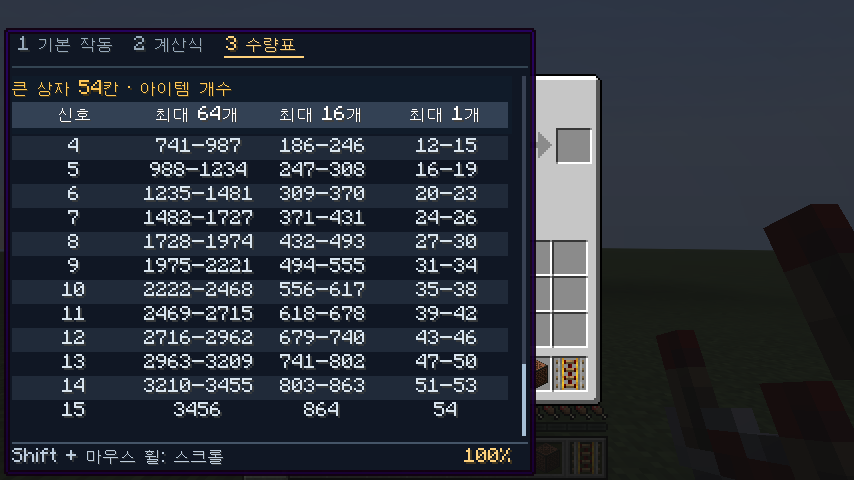
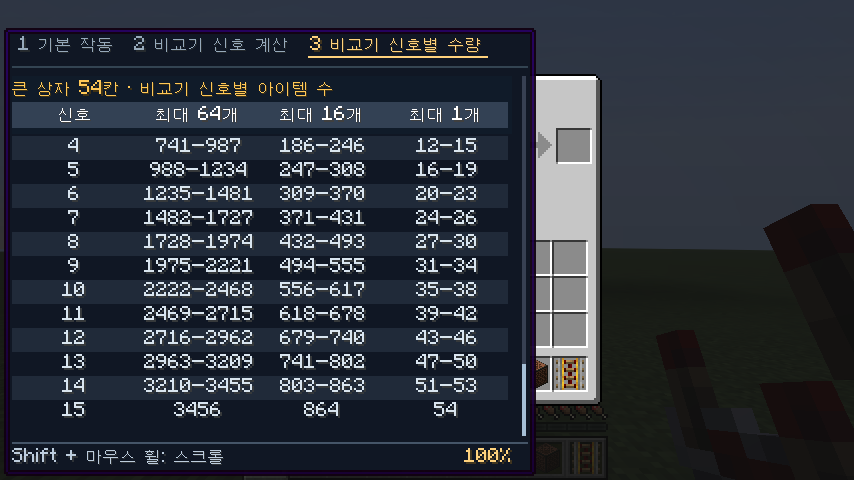
Clarify comparator context in signal calculations and count tables

Changed region(s): [[0.2436, 0.0625, 0.5785, 0.125], [0.1827, 0.1562, 0.3653, 0.2188], [0.1827, 0.0625, 0.2131, 0.125]]

diff --git a/src/client/java/io/github/ruok0214/redstonehelp/GuideSections.java b/src/client/java/io/github/ruok0214/redstonehelp/GuideSections.java
@@ -28,14 +28,15 @@ public final class GuideSections {
             case "hopper" -> List.of(group(topic, "transfer", 1, 2), group(topic, "pickup", 3));
             case "piston", "sticky_piston" -> List.of(new Section("movement", ExtraDetails.keys(topic)));
             case "sculk_sensor", "calibrated_sculk_sensor" -> List.of(group(topic, "range_time", 1, 2), group(topic, "signal", 3));
-            case "shelf" -> List.of(group(topic, "swapping", 1, 3), group(topic, "signal", 2));
-            case "chiseled_bookshelf" -> List.of(group(topic, "signal", 1), group(topic, "storage", 2, 3));
-            case "cauldron" -> List.of(group(topic, "signal", 1), group(topic, "contents", 2, 3));
+            case "shelf" -> List.of(group(topic, "swapping", 1, 3), group(topic, "comparator_output", 2));
+            case "chiseled_bookshelf" -> List.of(group(topic, "comparator_output", 1), group(topic, "storage", 2, 3));
+            case "cauldron" -> List.of(group(topic, "comparator_output", 1), group(topic, "contents", 2, 3));
             case "big_dripleaf" -> List.of(group(topic, "timing", 1, 2), group(topic, "power", 3));
             case "wind_charge" -> List.of(group(topic, "exceptions", 1), group(topic, "signal", 2), group(topic, "launching", 3));
-            case "copper_bulb" -> List.of(group(topic, "brightness", 1), group(topic, "signal", 2));
+            case "copper_bulb" -> List.of(group(topic, "brightness", 1), group(topic, "comparator_output", 2));
             case "beehive", "cake", "respawn_anchor", "item_frame", "copper_golem_statue", "creaking_heart",
-                 "end_portal_frame", "lectern", "composter", "lightning_rod", "target", "detector_rail" -> List.of(new Section("signal", ExtraDetails.keys(topic)));
+                 "end_portal_frame", "composter" -> List.of(new Section("comparator_output", ExtraDetails.keys(topic)));
+            case "lectern", "lightning_rod", "target", "detector_rail" -> List.of(new Section("signal", ExtraDetails.keys(topic)));
             default -> ExtraDetails.has(topic) ? List.of(new Section("details", ExtraDetails.keys(topic))) : List.of();
         };
     }

diff --git a/README.md b/README.md
@@ -7,7 +7,7 @@ Minecraft Java **26.2 / Fabric**용 클라이언트 모드입니다.
 ## 설치
 
 1. Minecraft Java **26.2**, Fabric Loader **0.19.5 이상**, Java **25 이상** 환경을 준비합니다.
-2. `redstone-block-description-0.5.0.jar`와 **Fabric API 0.160.0+26.2**를 해당 게임 프로필의 `mods` 폴더에 넣습니다. 이전 버전의 `redstone-block-description-*.jar` 또는 `redstone-help-*.jar`는 새 파일로 교체합니다.
+2. `redstone-block-description-0.5.1.jar`와 **Fabric API 0.160.0+26.2**를 해당 게임 프로필의 `mods` 폴더에 넣습니다. 이전 버전의 `redstone-block-description-*.jar` 또는 `redstone-help-*.jar`는 새 파일로 교체합니다.
 3. 게임을 실행합니다. Minecraft 언어가 한국어이면 한국어 설명이 표시됩니다.
 
 서버에는 설치할 필요가 없습니다. 다른 프로젝트의 모드나 Mod Menu도 필요하지 않습니다.
@@ -78,10 +78,11 @@ Minecraft Java **26.2 / Fabric**용 클라이언트 모드입니다.
 발사기는 **발사체 / 양동이 / 도구 사용 / 장비 장착 / 설치·생성 / 제한·예외**, 소리 블록은 **음높이·연주 / 아래 블록별 악기 / 구리·머리 음색** 등으로 나눕니다.
 각 제목은 상단의 내용 순서와 대응합니다. 상단 표시는 읽는 위치를 알려 주며, 이동은 기존처럼 Shift와 마우스 휠을 사용합니다.
 
-### 보관함 수량표
+### 보관함의 비교기 신호와 수량표
 
-계산식은 **비어 있으면 0, 그 외에는 1 + 내림(14 × 채워진 비율)**로 표시합니다.
+**비교기 신호 계산** 항목에는 비교기가 읽는 출력값을 **비어 있으면 0, 그 외에는 1 + 내림(14 × 채워진 비율)**로 표시합니다.
 채워진 비율은 빈 칸을 포함한 각 칸의 채움 비율을 평균한 값입니다.
+**비교기 신호별 수량**과 표 제목에도 비교기에 관한 정보임을 명시합니다. 선반·가마솥 등에서 비교기로 읽는 값은 **비교기 출력**이라는 제목으로 구분합니다.
 
 - 1·5·9·27·54칸 보관함은 최대 64개·16개·1개씩 겹쳐지는 아이템별로 신호 0~15를 내는 **실제 낱개 수 범위**를 표시합니다.
 - 상자·덫 상자·구리 상자는 27칸과 큰 상자 54칸 표를 함께 표시합니다.
@@ -123,7 +124,7 @@ Minecraft Java **26.2 / Fabric**용 클라이언트 모드입니다.
 ```
 
 Java 25가 필요합니다. Linux/macOS에서는 `./gradlew`를 사용합니다.
-설치 파일은 `build/libs/redstone-block-description-0.5.0.jar`입니다.
+설치 파일은 `build/libs/redstone-block-description-0.5.1.jar`입니다.
 모드 표시 이름과 배포 파일명은 변경했으며, 기존 설치와의 중복 감지를 위해 내부 ID `redstone_help`는 유지합니다.
 
 클라이언트 테스트는 별도의 테스트 월드에서 다음을 검사합니다.

diff --git a/docs/VERIFICATION.md b/docs/VERIFICATION.md
@@ -1,6 +1,6 @@
 # 검증 기록
 
-검증일: 2026-10-31. 대상: Redstone Block Description 0.5.0, Minecraft Java 26.2,
+검증일: 2026-10-31. 대상: Redstone Block Description 0.5.1, Minecraft Java 26.2,
 Fabric Loader 0.19.5, Fabric API 0.160.0+26.2, Java 25, Windows.
 
 ## 결과
@@ -9,7 +9,7 @@ Fabric Loader 0.19.5, Fabric API 0.160.0+26.2, Java 25, Windows.
 - `gradlew --offline runClientGameTest -PcaptureIllustrations -PcaptureExpanded`: **BUILD SUCCESSFUL**. 별도 게임 월드에서 새 장면 38장을 촬영했으며 전체 640×360 PNG는 140장입니다.
 - 새 촬영 결과와 모드 리소스로 복사한 38장의 SHA-256 일치 확인.
 - 전체 200개 등록 아이템의 실제 게임 레지스트리 존재 및 기본·상세 툴팁 연결 확인. 아이템이 있는 비교기 출력 블록에 설명이 누락되지 않았는지 검사 통과.
-- 한국어·영어 리소스 각각 470개 키, 양쪽 키 일치 확인.
+- 한국어·영어 리소스 각각 471개 키, 양쪽 키 일치 확인.
 - 한국어·영어 61개 주제에서 기능·작동 조건·수치 위주로 검토.
 - 양 언어에서 모든 설명의 번역 키 해석과 최대 250 GUI 픽셀 줄바꿈 검사 통과.
 - Shift 누르기 및 해제로 상세·기본 표시 전환 확인.
@@ -17,6 +17,7 @@ Fabric Loader 0.19.5, Fabric API 0.160.0+26.2, Java 25, Windows.
 - 항목별 제목의 여백, 문단 들여쓰기와 줄 너비 검사 통과. 기능 요약 뒤의 사진은 Shift 설명에 계속 포함됩니다.
 - 모든 설명 대상에서 항목 분류 후 기존 추가 정보가 빠지거나 중복되지 않는지 검사 통과.
 - 한국어·영어의 모든 소제목·상단 내용 순서가 번역되고 화면 너비 안에 들어가는지 검사 통과.
+- 비교기 신호 계산·신호별 수량·비교기 출력으로 바꾼 제목과 표의 문맥, 긴 제목의 줄바꿈을 확인했습니다.
 - 스크롤에 따라 상단의 현재 항목 표시가 바뀌는지, 작은 화면의 수량표에서도 표 제목과 열 이름이 고정되는지 검사 통과.
 - 실제 화면에서 구분선·글머리표·문단 간격·이름 및 수치 강조·불투명한 배경·진행률 표시를 검토했습니다.
 - 동력·활성화 레일의 양방향 8칸 전원 전달과 일반 레일에 의한 단절, 20종 악기·추가 재료·25개 음높이 검사 통과.

diff --git a/CHANGELOG.md b/CHANGELOG.md
@@ -1,5 +1,11 @@
 # 변경 기록
 
+## 0.5.1 — 2026-10-31
+
+- 보관함의 ‘계산식’과 ‘수량표’ 제목을 ‘비교기 신호 계산’, ‘비교기 신호별 수량’으로 바꿨습니다.
+- 표 제목과 계산 안내에도 비교기 출력에 관한 정보임을 명시했습니다.
+- 선반·조각된 책장·가마솥·구리 전구 등의 비교기 관련 항목은 ‘비교기 출력’으로 표시해 자체 신호 출력과 구분했습니다.
+
 ## 0.5.0 — 2026-10-31
 
 - 긴 설명을 항목별 소제목과 구분선으로 나눴습니다. 발사기 동작은 발사체·양동이·도구·장착·설치 등으로 분류합니다.
